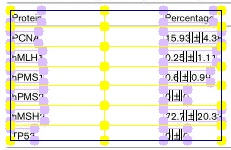
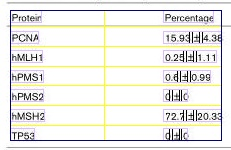
Unify render parameters for whole page and crop render

diff --git a/pubtables_1m/render_table_parts.py b/pubtables_1m/render_table_parts.py
@@ -182,7 +182,7 @@ class TablePartRenderer:
             cv2.imwrite(output_file, rendered_page_layout)
             self.stats['page_layout_rendered_exported'] += 1
 
-            rendered_page_layout_cropped = table_layout.render_table_crops(image_orig.copy(), thickness=1)[0]
+            rendered_page_layout_cropped = table_layout.render_table_crops(rendered_page_layout, render_borders=False)[0]
             output_file = os.path.join(self.output_folder_page_xml_render, image_name.replace('.jpg', '_crop.jpg'))
             cv2.imwrite(output_file, rendered_page_layout_cropped)
             self.stats['page_layout_crops_exported'] += 1
